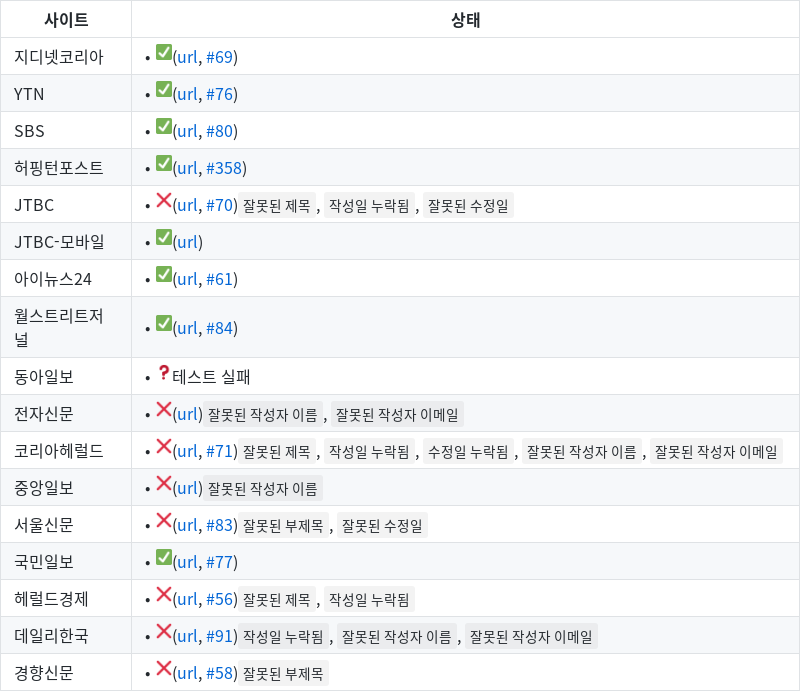
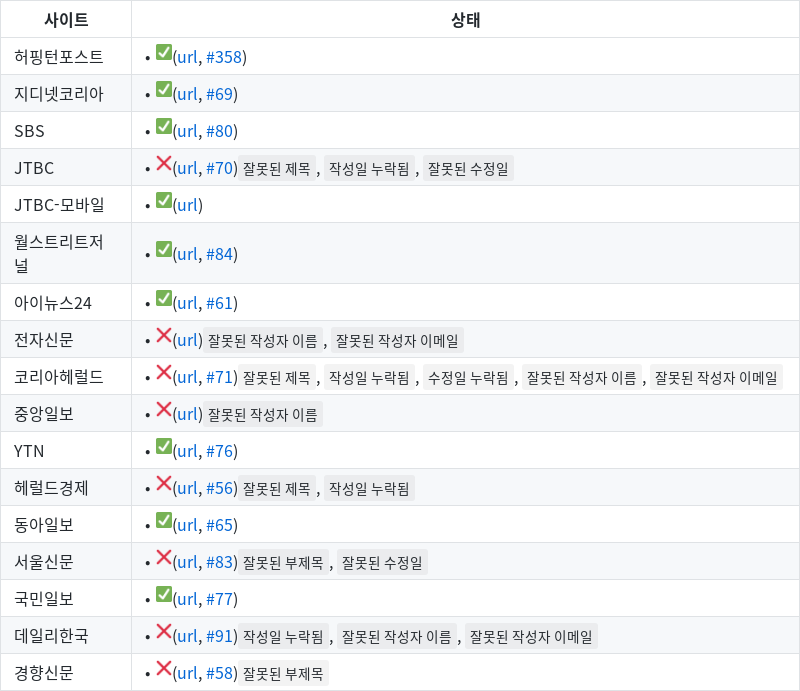
Fri Jul 17 00:32:39 UTC 2020

diff --git a/health-check.md b/health-check.md
@@ -1,19 +1,19 @@
 | 사이트 | 상태 |
 |------|-------|
-| 지디넷코리아 | • ✅([url](http://www.zdnet.co.kr/view/?no=20141104074223), [#69](https://github.com/disjukr/just-news/issues/#69)) |
-| YTN | • ✅([url](https://www.ytn.co.kr/_ln/0103_201411190800481989), [#76](https://github.com/disjukr/just-news/issues/#76)) |
-| SBS | • ✅([url](https://news.sbs.co.kr/news/endPage.do?news_id=N1002697236), [#80](https://github.com/disjukr/just-news/issues/#80)) |
 | 허핑턴포스트 | • ✅([url](https://www.huffingtonpost.kr/entry/story_kr_5d36a558e4b004b6adb5029c?9e4), [#358](https://github.com/disjukr/just-news/issues/#358)) |
+| 지디넷코리아 | • ✅([url](http://www.zdnet.co.kr/view/?no=20141104074223), [#69](https://github.com/disjukr/just-news/issues/#69)) |
+| SBS | • ✅([url](https://news.sbs.co.kr/news/endPage.do?news_id=N1002697236), [#80](https://github.com/disjukr/just-news/issues/#80)) |
 | JTBC | • ❌([url](http://news.jtbc.joins.com/article/article.aspx?news_id=NB10639468), [#70](https://github.com/disjukr/just-news/issues/#70))`잘못된 제목`, `작성일 누락됨`, `잘못된 수정일` |
 | JTBC-모바일 | • ✅([url](http://mnews.jtbc.joins.com/News/Article.aspx?news_id=NB11866214)) |
-| 아이뉴스24 | • ✅([url](http://www.inews24.com/view/860573), [#61](https://github.com/disjukr/just-news/issues/#61)) |
 | 월스트리트저널 | • ✅([url](https://realtime.wsj.com/korea/2014/10/13/%EB%B0%95%EC%9B%90%EC%88%9C-%EC%84%9C%EC%9A%B8%EC%8B%9C%EC%9E%A5-%EB%AF%B8%EA%B5%AD-%EC%96%B8%EB%A1%A0%EC%97%90-%EB%8F%99%EC%84%B1%EA%B2%B0%ED%98%BC-%EC%A7%80%EC%A7%80-%EB%B0%9C%EC%96%B8/), [#84](https://github.com/disjukr/just-news/issues/#84)) |
-| 동아일보 | • ❓테스트 실패 |
+| 아이뉴스24 | • ✅([url](http://www.inews24.com/view/860573), [#61](https://github.com/disjukr/just-news/issues/#61)) |
 | 전자신문 | • ❌([url](http://www.etnews.com/20191031000370?mc=ns_003_00006))`잘못된 작성자 이름`, `잘못된 작성자 이메일` |
 | 코리아헤럴드 | • ❌([url](http://khnews.kheraldm.com/view.php?ud=20141111001137&md=20141111180830_BK&kr=1), [#71](https://github.com/disjukr/just-news/issues/#71))`잘못된 제목`, `작성일 누락됨`, `수정일 누락됨`, `잘못된 작성자 이름`, `잘못된 작성자 이메일` |
 | 중앙일보 | • ❌([url](https://news.joins.com/article/23621286))`잘못된 작성자 이름` |
+| YTN | • ✅([url](https://www.ytn.co.kr/_ln/0103_201411190800481989), [#76](https://github.com/disjukr/just-news/issues/#76)) |
+| 헤럴드경제 | • ❌([url](http://news.heraldcorp.com/view.php?ud=20141023000202&md=20141023091209_BK), [#56](https://github.com/disjukr/just-news/issues/#56))`잘못된 제목`, `작성일 누락됨` |
+| 동아일보 | • ✅([url](http://news.donga.com/3/03/20141107/67723014/1), [#65](https://github.com/disjukr/just-news/issues/#65)) |
 | 서울신문 | • ❌([url](http://seoul.co.kr/news/newsView.php?id=20141204500025), [#83](https://github.com/disjukr/just-news/issues/#83))`잘못된 부제목`, `잘못된 수정일` |
 | 국민일보 | • ✅([url](http://news.kmib.co.kr/article/view.asp?arcid=0008864720&code=61121111), [#77](https://github.com/disjukr/just-news/issues/#77)) |
-| 헤럴드경제 | • ❌([url](http://news.heraldcorp.com/view.php?ud=20141023000202&md=20141023091209_BK), [#56](https://github.com/disjukr/just-news/issues/#56))`잘못된 제목`, `작성일 누락됨` |
 | 데일리한국 | • ❌([url](http://daily.hankooki.com/lpage/politics/201412/dh20141219103740137430.htm), [#91](https://github.com/disjukr/just-news/issues/#91))`작성일 누락됨`, `잘못된 작성자 이름`, `잘못된 작성자 이메일` |
 | 경향신문 | • ❌([url](http://biz.khan.co.kr/khan_art_view.html?artid=201410311921301&code=920100&med=khan), [#58](https://github.com/disjukr/just-news/issues/#58))`잘못된 부제목` |
